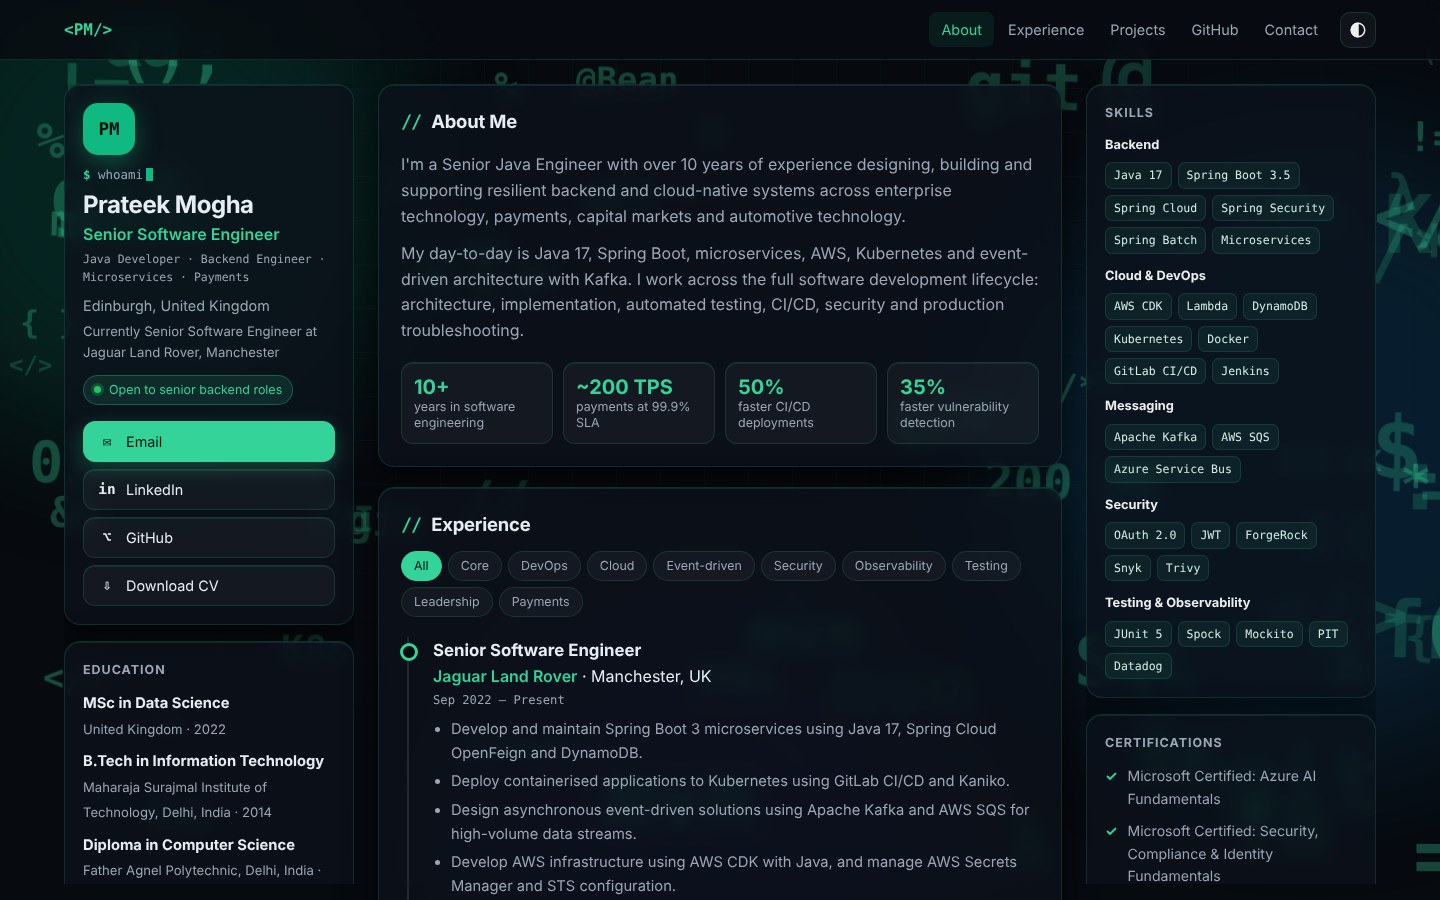
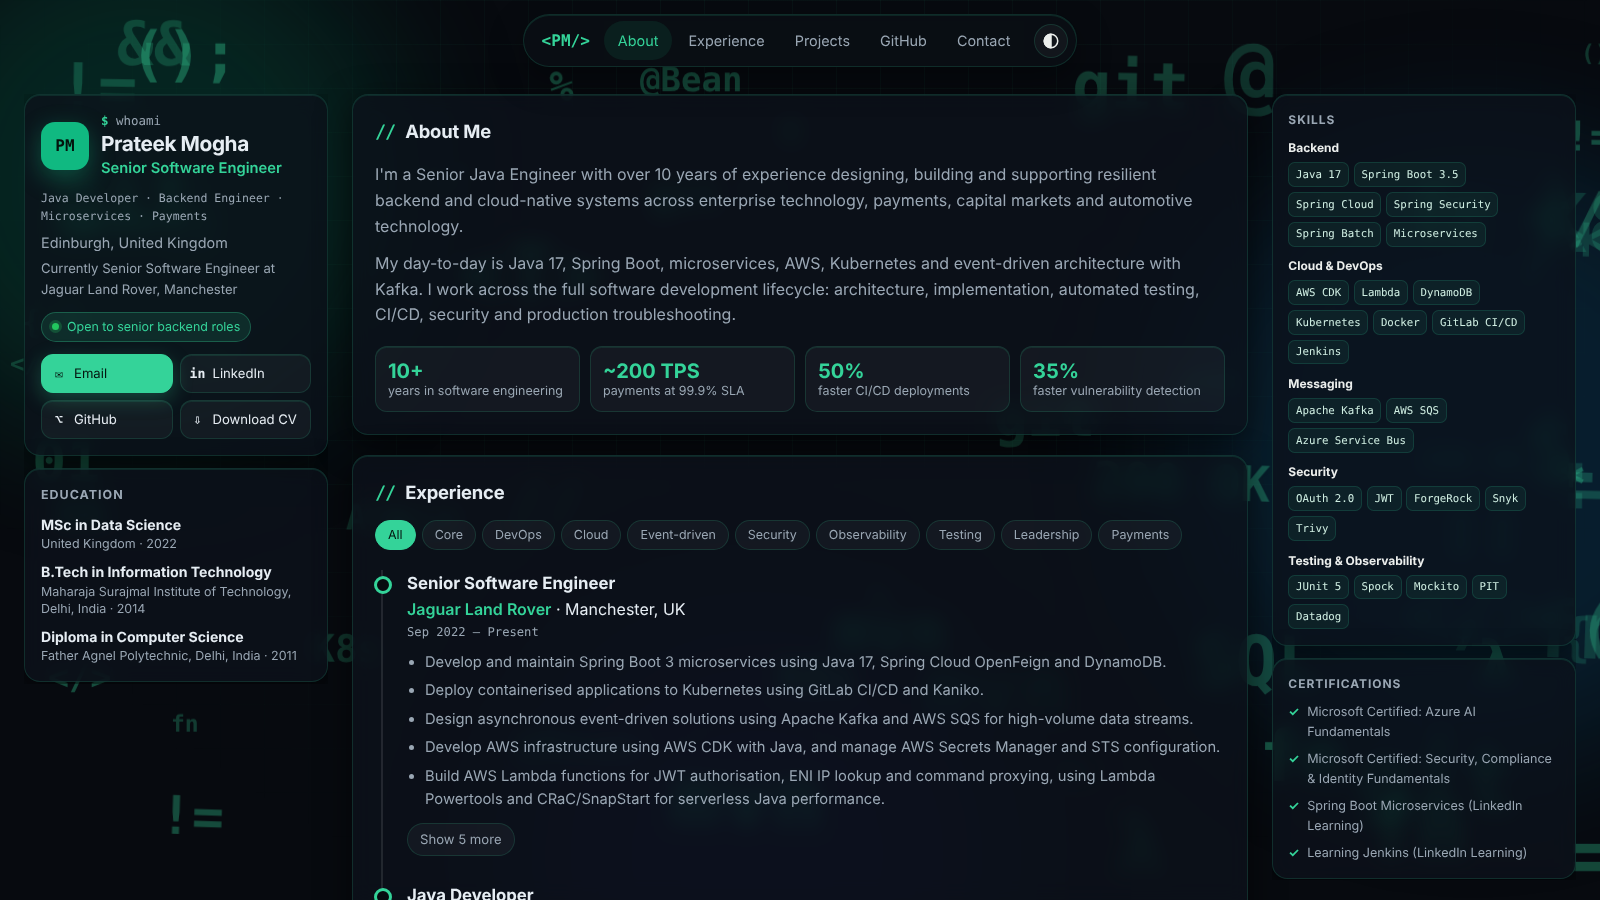
Floating menu, wider layout and mobile refinements

diff --git a/index.html b/index.html
@@ -284,6 +284,129 @@ a.row:hover .arrow{transform:translate(2px,-2px);color:var(--accent)}
 @media(max-width:700px){
   .row{grid-template-columns:28px minmax(0,1fr) 16px}
 }
+
+/* ================= FLOATING MENU ================= */
+:root{--nav:74px}
+html{scroll-padding-top:100px}
+header.nav{position:fixed;top:0;left:0;right:0;height:auto;background:none;border:0;backdrop-filter:none;-webkit-backdrop-filter:none;box-shadow:none;pointer-events:none;z-index:50}
+header.nav .in{
+  pointer-events:auto;position:relative;
+  width:max-content;max-width:calc(100% - 28px);height:auto;margin:14px auto 0;padding:6px 8px 6px 18px;gap:8px;
+  justify-content:center;border-radius:999px;
+  background:var(--glass);border:1px solid var(--glass-brd);
+  backdrop-filter:blur(14px) saturate(150%);-webkit-backdrop-filter:blur(14px) saturate(150%);
+  box-shadow:0 12px 34px rgba(0,0,0,.35), inset 0 1px 0 var(--glass-hi)}
+:root:not([data-theme="dark"]) header.nav .in{box-shadow:0 12px 30px rgba(15,60,56,.16), inset 0 1px 0 var(--glass-hi)}
+header.nav .logo{margin-right:6px}
+nav{gap:2px}
+nav a.link{display:flex;align-items:center;gap:6px;padding:8px 14px;border-radius:999px}
+nav a.link .ic{display:none}
+.theme{margin-left:2px;width:34px;height:34px;border-radius:50%}
+.shell{padding-top:94px}
+
+
+/* remove the old full-width bar behind the floating menu */
+header.nav,:root[data-theme="dark"] header.nav,:root:not([data-theme="dark"]) header.nav{background:none!important;border:0!important;backdrop-filter:none!important;-webkit-backdrop-filter:none!important;box-shadow:none!important}
+
+/* phones: iOS-style floating tab bar */
+@media(max-width:700px){
+  header.nav .in{width:auto;max-width:none;margin:10px 14px 0;padding:0;gap:0;justify-content:space-between;border-radius:0;background:none;border:0;box-shadow:none;backdrop-filter:none;-webkit-backdrop-filter:none}
+  header.nav .logo{margin:0;padding:8px 14px;border-radius:999px;background:var(--glass);border:1px solid var(--glass-brd);backdrop-filter:blur(14px) saturate(150%);-webkit-backdrop-filter:blur(14px) saturate(150%);box-shadow:0 6px 18px rgba(0,0,0,.28)}
+  .theme{width:40px;height:40px;margin:0;box-shadow:0 6px 18px rgba(0,0,0,.28);background:var(--glass);backdrop-filter:blur(14px);-webkit-backdrop-filter:blur(14px)}
+  nav#nav{position:fixed;pointer-events:auto;left:14px;right:14px;bottom:calc(12px + env(safe-area-inset-bottom));z-index:60;
+    display:flex;justify-content:space-around;gap:0;padding:7px 6px;border-radius:30px;
+    background:var(--glass);border:1px solid var(--glass-brd);
+    backdrop-filter:blur(18px) saturate(170%);-webkit-backdrop-filter:blur(18px) saturate(170%);
+    box-shadow:0 14px 40px rgba(0,0,0,.5), inset 0 1px 0 var(--glass-hi)}
+  nav a.link{display:flex!important;flex-direction:column;align-items:center;justify-content:center;gap:3px;flex:1;min-width:0;padding:8px 2px;border-radius:22px;font-size:.64rem;line-height:1.1;letter-spacing:.01em}
+  nav a.link .ic{display:block;width:22px;height:22px}
+  nav a.link.active{background:var(--accent-soft)}
+  :root[data-theme="dark"] nav a.link.active{background:rgba(52,211,153,.14)}
+  .shell{padding:70px 16px 108px}
+  footer{padding-bottom:96px}
+}
+
+/* more solid menu surfaces so page text doesn't show through */
+:root{--navglass:rgba(255,255,255,.93)}
+:root[data-theme="dark"]{--navglass:rgba(10,14,20,.92)}
+header.nav .in{background:var(--navglass)}
+nav#nav{background:var(--navglass)}
+@media(max-width:700px){
+  header.nav .in,:root:not([data-theme="dark"]) header.nav .in{background:none;box-shadow:none}
+  header.nav .logo,.theme{background:var(--navglass)}
+  nav#nav{background:var(--navglass)}
+}
+
+/* ================= WIDE DESKTOP + PHONE REFINEMENTS ================= */
+.shell{max-width:1680px;grid-template-columns:clamp(290px,19vw,340px) minmax(0,1fr) clamp(290px,19vw,340px)}
+footer{max-width:1680px}
+.duo{display:flex;flex-direction:column;gap:20px}
+@media(min-width:1500px){
+  .duo{display:grid;grid-auto-flow:column;grid-auto-columns:minmax(0,1fr)}
+}
+@supports(min-height:100dvh){body{min-height:100dvh}}
+
+/* compact intro card */
+.idrow{display:flex;align-items:center;gap:12px;margin-bottom:10px}
+.idrow .avatar{width:48px;height:48px;border-radius:14px;font-size:1rem;margin:0;flex:none}
+.idtext{min-width:0}
+.idtext .whoami{margin:0 0 1px}
+.idtext h1{font-size:1.3rem;line-height:1.15}
+.idtext .role{margin:1px 0 0;font-size:.92rem}
+.kw{margin-bottom:6px}
+.badge{margin-bottom:12px}
+.intro .links{display:grid;grid-template-columns:1fr 1fr;gap:7px}
+.intro .links .pill{padding:8px 9px;gap:7px;font-size:.82rem;white-space:nowrap;justify-content:flex-start;min-width:0}
+.intro .links .pill b{width:16px}
+/* denser side panels */
+.side.panel .card{padding:16px}
+.side h2{margin-bottom:9px}
+.chip{font-size:.7rem;padding:3px 7px}
+.chips{gap:5px}
+.sg{margin-bottom:10px}
+.sg h3{margin-bottom:5px;font-size:.78rem}
+.cert{font-size:.82rem;margin-bottom:7px;gap:8px}
+.edu{margin-bottom:8px}
+.edu b{font-size:.88rem}
+.edu span{font-size:.78rem;line-height:1.35;display:block}
+.panel{gap:12px}
+
+.morebul{font:inherit;font-size:.82rem;cursor:pointer;margin-top:6px;padding:5px 12px;border-radius:999px;border:1px solid var(--glass-brd);background:var(--glass-soft);color:var(--muted);transition:.15s}
+.morebul:hover{border-color:var(--accent);color:var(--accent)}
+:root[data-theme="dark"] .morebul:hover{color:var(--txt-acc);border-color:var(--txt-acc)}
+
+/* phones */
+@media(max-width:700px){
+  .duo{display:contents}
+  .shell{padding:66px 12px 104px;gap:12px}
+  .card{padding:16px;border-radius:18px}
+  h2{margin-bottom:12px}
+  .intro .links{grid-template-columns:1fr 1fr 46px 46px}
+  .intro .links .k-email{order:1}.intro .links .k-cv{order:2}.intro .links .k-linkedin{order:3}.intro .links .k-github{order:4}
+  .intro .links .k-linkedin .lbl,.intro .links .k-github .lbl{display:none}
+  .intro .links .k-linkedin,.intro .links .k-github{justify-content:center;padding:8px 0}
+  .intro .links .pill{min-height:44px;font-size:.88rem}
+  .filters{flex-wrap:nowrap;overflow-x:auto;margin:0 -16px 14px;padding:2px 16px 6px;scrollbar-width:none;-webkit-overflow-scrolling:touch}
+  .filters::-webkit-scrollbar{display:none}
+  .filters button{flex:none;min-height:38px;padding:6px 14px}
+  .morebul,.more{min-height:42px}
+  .theme{width:44px;height:44px}
+  .stats{grid-template-columns:repeat(2,1fr)}
+  .job{margin-bottom:22px}
+  /* tap-to-expand skills and certifications */
+  .skills h2,.certs h2{cursor:pointer;justify-content:space-between;margin-bottom:0}
+  .skills.open h2,.certs.open h2{margin-bottom:12px}
+  .skills h2::after,.certs h2::after{content:"+";font-size:1.2rem;color:var(--muted);letter-spacing:0;text-transform:none}
+  .skills.open h2::after,.certs.open h2::after{content:"–"}
+  .skills:not(.open)>div,.certs:not(.open)>div{display:none}
+  header.nav .logo,header.nav .theme{transition:transform .25s ease,opacity .25s ease}
+  header.nav.nav-hide .logo,header.nav.nav-hide .theme{transform:translateY(-70px);opacity:0;pointer-events:none}
+}
+@media(max-width:700px) and (orientation:landscape){
+  nav a.link{flex-direction:row;gap:6px;font-size:.78rem}
+  nav a.link .ic{width:18px;height:18px}
+  .shell{padding-bottom:84px}
+}
 /* browsers without backdrop-filter: fall back to near-solid cards */
 @supports not ((backdrop-filter:blur(1px)) or (-webkit-backdrop-filter:blur(1px))){
   .card,header.nav{background:var(--surface)}
@@ -294,23 +417,27 @@ a.row:hover .arrow{transform:translate(2px,-2px);color:var(--accent)}
 <div class="bg" aria-hidden="true"><i></i><i></i><i></i><div class="syms" id="syms"></div></div>
 <header class="nav"><div class="in">
   <a class="logo" href="#top" aria-label="Home">&lt;PM/&gt;</a>
-  <nav id="nav">
-    <a class="link" href="#about">About</a>
-    <a class="link" href="#experience">Experience</a>
-    <a class="link" href="#projects">Projects</a>
-    <a class="link" href="#github">GitHub</a>
-    <a class="link" href="#contact">Contact</a>
-    <button class="theme" id="theme" aria-label="Toggle dark mode" title="Toggle dark mode"><svg width="18" height="18" viewBox="0 0 24 24" fill="none" stroke="currentColor" stroke-width="2" stroke-linecap="round" stroke-linejoin="round" aria-hidden="true"><circle cx="12" cy="12" r="9"/><path d="M12 3a9 9 0 0 0 0 18z" fill="currentColor"/></svg></button>
+  <nav id="nav" aria-label="Sections">
+    <a class="link" href="#about"><svg class="ic" viewBox="0 0 24 24" fill="none" stroke="currentColor" stroke-width="1.8" stroke-linecap="round" stroke-linejoin="round" aria-hidden="true"><circle cx="12" cy="8" r="4"/><path d="M4 21c0-4 4-6 8-6s8 2 8 6"/></svg><span>About</span></a>
+    <a class="link" href="#experience"><svg class="ic" viewBox="0 0 24 24" fill="none" stroke="currentColor" stroke-width="1.8" stroke-linecap="round" stroke-linejoin="round" aria-hidden="true"><rect x="3" y="7" width="18" height="13" rx="2"/><path d="M9 7V5a2 2 0 0 1 2-2h2a2 2 0 0 1 2 2v2M3 13h18"/></svg><span>Experience</span></a>
+    <a class="link" href="#projects"><svg class="ic" viewBox="0 0 24 24" fill="none" stroke="currentColor" stroke-width="1.8" stroke-linecap="round" stroke-linejoin="round" aria-hidden="true"><rect x="3" y="3" width="7" height="7" rx="1.5"/><rect x="14" y="3" width="7" height="7" rx="1.5"/><rect x="3" y="14" width="7" height="7" rx="1.5"/><rect x="14" y="14" width="7" height="7" rx="1.5"/></svg><span>Projects</span></a>
+    <a class="link" href="#github"><svg class="ic" viewBox="0 0 24 24" fill="none" stroke="currentColor" stroke-width="1.8" stroke-linecap="round" stroke-linejoin="round" aria-hidden="true"><path d="M8 8l-5 4 5 4M16 8l5 4-5 4M14 5l-4 14"/></svg><span>GitHub</span></a>
+    <a class="link" href="#contact"><svg class="ic" viewBox="0 0 24 24" fill="none" stroke="currentColor" stroke-width="1.8" stroke-linecap="round" stroke-linejoin="round" aria-hidden="true"><rect x="3" y="5" width="18" height="14" rx="2"/><path d="M3 7l9 6 9-6"/></svg><span>Contact</span></a>
   </nav>
+  <button class="theme" id="theme" aria-label="Toggle dark mode" title="Toggle dark mode"><svg width="18" height="18" viewBox="0 0 24 24" fill="none" stroke="currentColor" stroke-width="2" stroke-linecap="round" stroke-linejoin="round" aria-hidden="true"><circle cx="12" cy="12" r="9"/><path d="M12 3a9 9 0 0 0 0 18z" fill="currentColor"/></svg></button>
 </div></header>
 
 <div class="shell" id="top">
   <aside class="panel side" aria-label="Profile">
     <section class="card intro">
-      <div class="avatar" id="avatar"></div>
-      <p class="whoami"><b>$</b> whoami<span class="cur-blink"></span></p>
-      <h1 id="name"></h1>
-      <p class="role" id="title"></p>
+      <div class="idrow">
+        <div class="avatar" id="avatar"></div>
+        <div class="idtext">
+          <p class="whoami"><b>$</b> whoami<span class="cur-blink"></span></p>
+          <h1 id="name"></h1>
+          <p class="role" id="title"></p>
+        </div>
+      </div>
       <p class="kw" id="kw"></p>
       <p class="loc" id="loc"></p>
       <p class="cur" id="cur"></p>
@@ -331,6 +458,7 @@ a.row:hover .arrow{transform:translate(2px,-2px);color:var(--accent)}
       <div class="filters" id="filters" role="group" aria-label="Filter experience by theme"></div>
       <div class="timeline" id="timeline"></div>
     </section>
+    <div class="duo">
     <section class="card reveal" id="projects">
       <h2>Projects</h2>
       <div class="list" id="projectList"></div>
@@ -340,6 +468,7 @@ a.row:hover .arrow{transform:translate(2px,-2px);color:var(--accent)}
       <p class="lede">Smaller personal projects, all public on my <a href="https://github.com/moghaprateek" target="_blank" rel="noopener noreferrer">GitHub profile</a>.</p>
       <div class="list" id="repoList"></div>
     </section>
+    </div>
     <section class="card contact reveal" id="contact">
       <h2>Let's Connect</h2>
       <p>Open to senior backend engineering roles across the UK. Email or LinkedIn is the best way to reach me.</p>
@@ -380,8 +509,9 @@ function socialLinks(target, inline){
   ];
   defs.forEach(([k,icon,label,href])=>{
     if(!href) return;
-    const a = el("a", "pill" + (k==="email" ? " primary":""));
-    a.appendChild(el("b","",icon)); a.appendChild(document.createTextNode(label));
+    const a = el("a", "pill k-"+k + (k==="email" ? " primary":""));
+    a.setAttribute("aria-label",label);
+    a.appendChild(el("b","",icon)); a.appendChild(el("span","lbl",label));
     a.href = href;
     if(k==="cv"){ a.setAttribute("download",""); a.target="_blank"; a.rel="noopener"; }
     else if(k!=="email"){ a.target="_blank"; a.rel="noopener noreferrer"; }
@@ -429,10 +559,12 @@ allTags.forEach(t => {
   b.addEventListener("click", () => { state.tag=t; renderExperience(); });
   $("filters").appendChild(b);
 });
+const openRoles = new Set();
 function renderExperience(){
   Array.from($("filters").children).forEach(b => b.setAttribute("aria-pressed", b.dataset.tag===state.tag ? "true":"false"));
   const box = $("timeline"); box.textContent = "";
   const filtering = state.tag !== "All";
+  const limit = CONFIG.visibleBullets || 5;
   let hidden = 0, shown = 0;
   CONFIG.experience.forEach((j, idx) => {
     const bullets = j.bullets.filter(b => !filtering || b[1].includes(state.tag));
@@ -443,9 +575,19 @@ function renderExperience(){
     job.appendChild(el("h3","",j.title));
     const co = el("div",""); co.appendChild(el("span","co",j.company)); co.appendChild(document.createTextNode(" · " + j.location));
     job.appendChild(co); job.appendChild(el("div","when",j.dateRange));
+    const collapsible = !filtering && bullets.length > limit;
+    const isOpen = openRoles.has(idx);
+    const list = collapsible && !isOpen ? bullets.slice(0, limit) : bullets;
     const ul = el("ul");
-    bullets.forEach(b => { const li = el("li","",b[0]); if(filtering) li.appendChild(el("span","t",state.tag)); ul.appendChild(li); });
-    job.appendChild(ul); box.appendChild(job);
+    list.forEach(b => { const li = el("li","",b[0]); if(filtering) li.appendChild(el("span","t",state.tag)); ul.appendChild(li); });
+    job.appendChild(ul);
+    if(collapsible){
+      const t = el("button","morebul", isOpen ? "Show less" : "Show " + (bullets.length - limit) + " more"); t.type="button";
+      t.setAttribute("aria-expanded", isOpen ? "true":"false");
+      t.addEventListener("click", () => { isOpen ? openRoles.delete(idx) : openRoles.add(idx); renderExperience(); fitPanels(); });
+      job.appendChild(t);
+    }
+    box.appendChild(job);
   });
   if(!shown) box.appendChild(el("p","empty","No matching experience."));
   if(hidden){
@@ -469,7 +611,8 @@ renderExperience();
   const box=document.getElementById("syms"); if(!box) return;
   const g=["</>","{ }","=>","();","[ ]","#","$_","&&","::","0x1F","01","@Bean","//","<T>","->","JVM","K8s","SQL","API","200 OK","main()","git","mvn","λ","!=","*","fn","@","/**","%"];
   let seed=7; const r=()=>{seed=(seed*16807)%2147483647;return (seed-1)/2147483646;};
-  for(let i=0;i<64;i++){
+  const N = window.innerWidth<=700 ? 22 : 64;
+  for(let i=0;i<N;i++){
     const sp=document.createElement("span");
     sp.textContent=g[Math.floor(r()*g.length)];
     sp.style.left=(i%3===0 ? (r()<.5 ? r()*4 : 94+r()*5) : r()*96).toFixed(1)+"%";
@@ -492,6 +635,50 @@ renderExperience();
     root.dataset.theme = next;
     try { localStorage.setItem("theme", next); } catch(e){}
   });
+})();
+
+
+/* fit the fixed side panels to the screen height (desktop) */
+function fitPanels(){
+  document.querySelectorAll(".panel").forEach(p => {
+    const cards = Array.from(p.children).filter(c => !c.hidden);
+    cards.forEach(c => c.style.zoom = "");
+    if(window.innerWidth <= 1100) return;
+    let z = 1;
+    for(let i=0;i<3;i++){
+      const need = p.scrollHeight, avail = p.clientHeight;
+      if(need <= avail + 1) break;
+      z = Math.max(.86, z * (avail / need));
+      cards.forEach(c => c.style.zoom = z);
+      if(z <= .86) break;
+    }
+  });
+}
+let fitTimer; window.addEventListener("resize", () => { clearTimeout(fitTimer); fitTimer = setTimeout(fitPanels, 120); });
+window.addEventListener("load", fitPanels);
+if(document.fonts && document.fonts.ready) document.fonts.ready.then(fitPanels);
+fitPanels();
+
+/* phone: tap-to-expand Skills and Certifications */
+["skills","certs"].forEach(cls => {
+  const sec = document.querySelector("." + cls); if(!sec) return;
+  const h = sec.querySelector("h2");
+  h.tabIndex = 0; h.setAttribute("role","button"); h.setAttribute("aria-expanded","false");
+  const toggle = () => { const o = sec.classList.toggle("open"); h.setAttribute("aria-expanded", o ? "true":"false"); };
+  h.addEventListener("click", toggle);
+  h.addEventListener("keydown", e => { if(e.key==="Enter" || e.key===" "){ e.preventDefault(); toggle(); } });
+});
+
+/* phone: hide the top logo/theme buttons while scrolling down, show on scroll up */
+(function(){
+  const hdr = document.querySelector("header.nav"); let last = window.scrollY;
+  window.addEventListener("scroll", () => {
+    if(window.innerWidth > 700){ hdr.classList.remove("nav-hide"); last = window.scrollY; return; }
+    const y = window.scrollY;
+    if(y > last + 8 && y > 120) hdr.classList.add("nav-hide");
+    else if(y < last - 8) hdr.classList.remove("nav-hide");
+    last = y;
+  }, {passive:true});
 })();
 
 (function(){

diff --git a/config.js b/config.js
@@ -121,6 +121,8 @@ const CONFIG = {
     "Spring Boot Microservices (LinkedIn Learning)",
     "Learning Jenkins (LinkedIn Learning)"
   ],
+  // number of bullets shown per role before "Show more" (all are shown when filtering)
+  visibleBullets: 5,
   // number of roles shown before the "Show earlier roles" button
   visibleRoles: 3 // roles shown before "Show earlier roles"
 };

diff --git a/README.md b/README.md
@@ -12,13 +12,12 @@ Java 17, Spring Boot, microservices, AWS, Kubernetes and Kafka, with experience 
 
 A single-page portfolio built with plain HTML, CSS and JavaScript. There is no framework and no build step, so it publishes straight from GitHub Pages.
 
-- Dark developer theme: near-black background, emerald accents, a faint grid and floating code symbols (`</>`, `{ }`, `git`, `@Bean` and more). Light mode is available from the toggle.
-- Three-column dashboard layout: profile and education (left), content (middle), skills and certifications (right). The side panels stay in place while the middle scrolls.
-- Frosted-glass cards with low blur, so the text stays easy to read.
-- Experience timeline with filter buttons by theme (Cloud, Security, Payments and so on).
-- Projects and GitHub projects shown as minimal lists, plus contact links and a CV download button.
-- Dark by default for new visitors; the choice is remembered per visitor.
-- Responsive: side panels stack above the content on tablets, and everything becomes a single column on phones.
+- Three-column dashboard layout that uses wide screens (up to 1680px): profile and education (left), content (middle), skills and certifications (right). The side panels stay in place while the middle scrolls. Projects and GitHub sit side by side on very wide screens.
+- Floating pill menu on desktop and an iOS-style bottom tab bar on phones.
+- Experience timeline with filter buttons by theme (Cloud, Security, Payments and so on) and a "Show more" toggle for long bullet lists.
+- Projects, GitHub projects, contact links and a CV download button.
+- Dark and light mode, remembered per visitor.
+- Responsive: side panels stack above the content on tablets. On phones everything is a single column with a short intro card, a one-row filter, and collapsible Skills and Certifications.
 - Search and sharing support: page title and description, structured data, a social preview image, `robots.txt` and `sitemap.xml`.
 
 ## Files
@@ -51,7 +50,7 @@ GitHub Pages refreshes within a minute or two. Use a hard refresh (Ctrl+F5) if y
 | Name, job title, location | `name`, `title`, `location` |
 | Keyword line under the name | `keywordsLine` |
 | "Currently ..." line | `currently` |
-| Theme colour (buttons, highlights) | `accent` (hex colour, currently `#10b981`) |
+| Theme colour | `accent` (hex colour) |
 | Email, LinkedIn, GitHub | `social` (delete a line to hide that button) |
 | About text | `about` (one string per paragraph) |
 | Headline numbers | `stats` |
@@ -61,17 +60,10 @@ GitHub Pages refreshes within a minute or two. Use a hard refresh (Ctrl+F5) if y
 | Jobs and bullets | `experience`, newest first |
 | Education and certifications | `education`, `certifications` |
 | Roles shown before "Show earlier roles" | `visibleRoles` |
+| Bullets shown per role before "Show more" | `visibleBullets` |
 
 Each experience bullet is written as `["text", ["Tag1", "Tag2"]]`. The tags create the filter buttons.
 To hide a section, set its list to `[]`.
-
-### Changing the look
-
-Styling lives in `index.html`, in the `<style>` block.
-
-- **Fewer or fainter background symbols:** in the script near the bottom, find the line `for(let i=0;i<64;i++)` and lower the number. The opacity is the line starting `sp.style.opacity`.
-- **Card transparency and blur:** the `--glass` colour values and the `blur(10px)` settings in the "GLASS THEME" part of the styles.
-- **Bright green text in dark mode:** `--txt-acc` in the "DEV / TERMINAL THEME" part. Change it together with `accent` in `config.js` if you switch colours.
 
 ### Updating the CV
 
